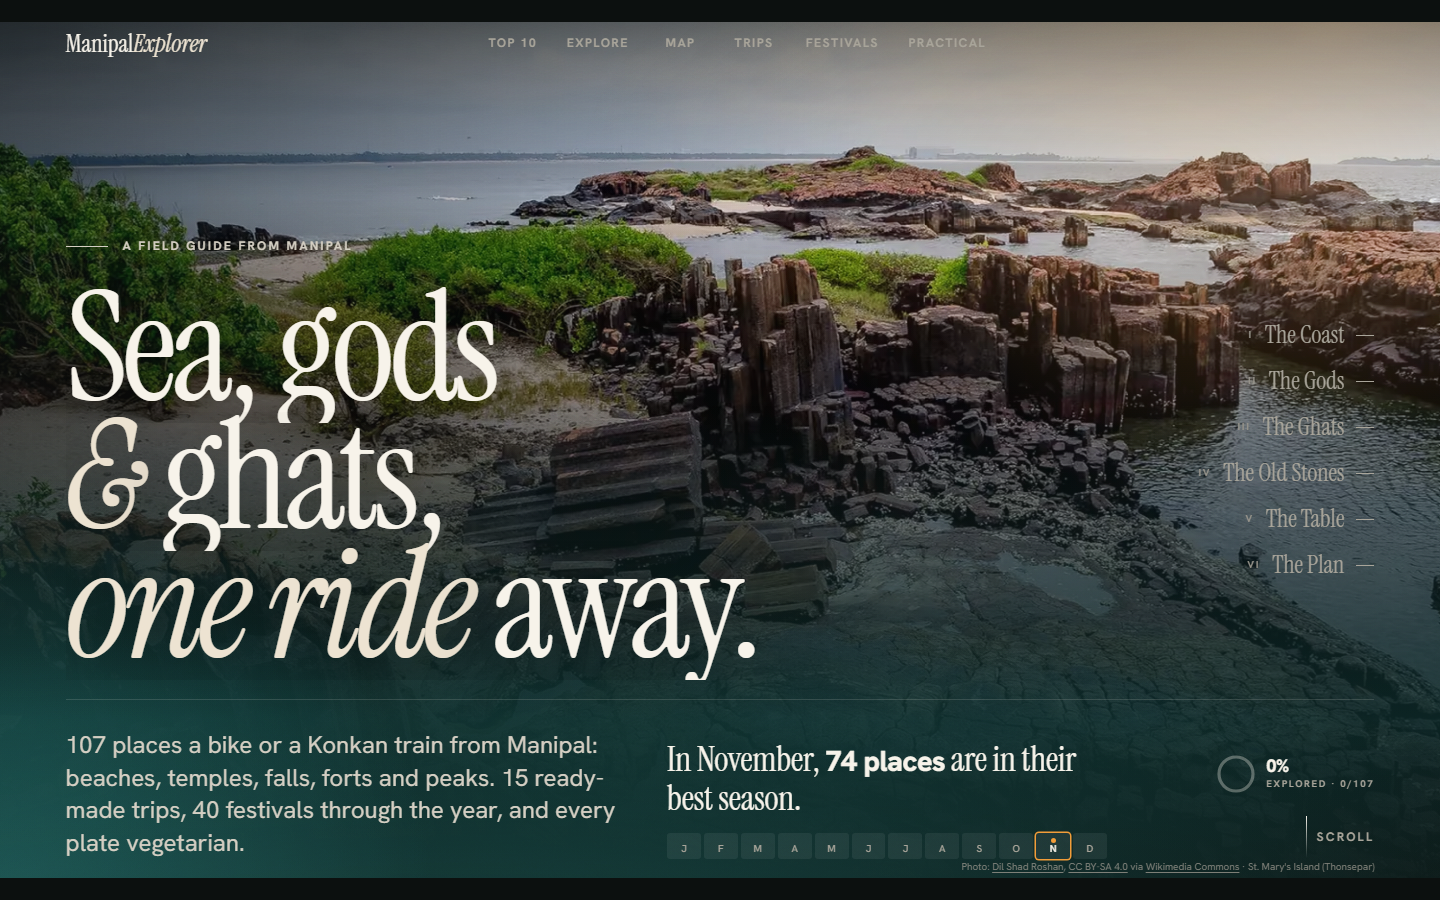
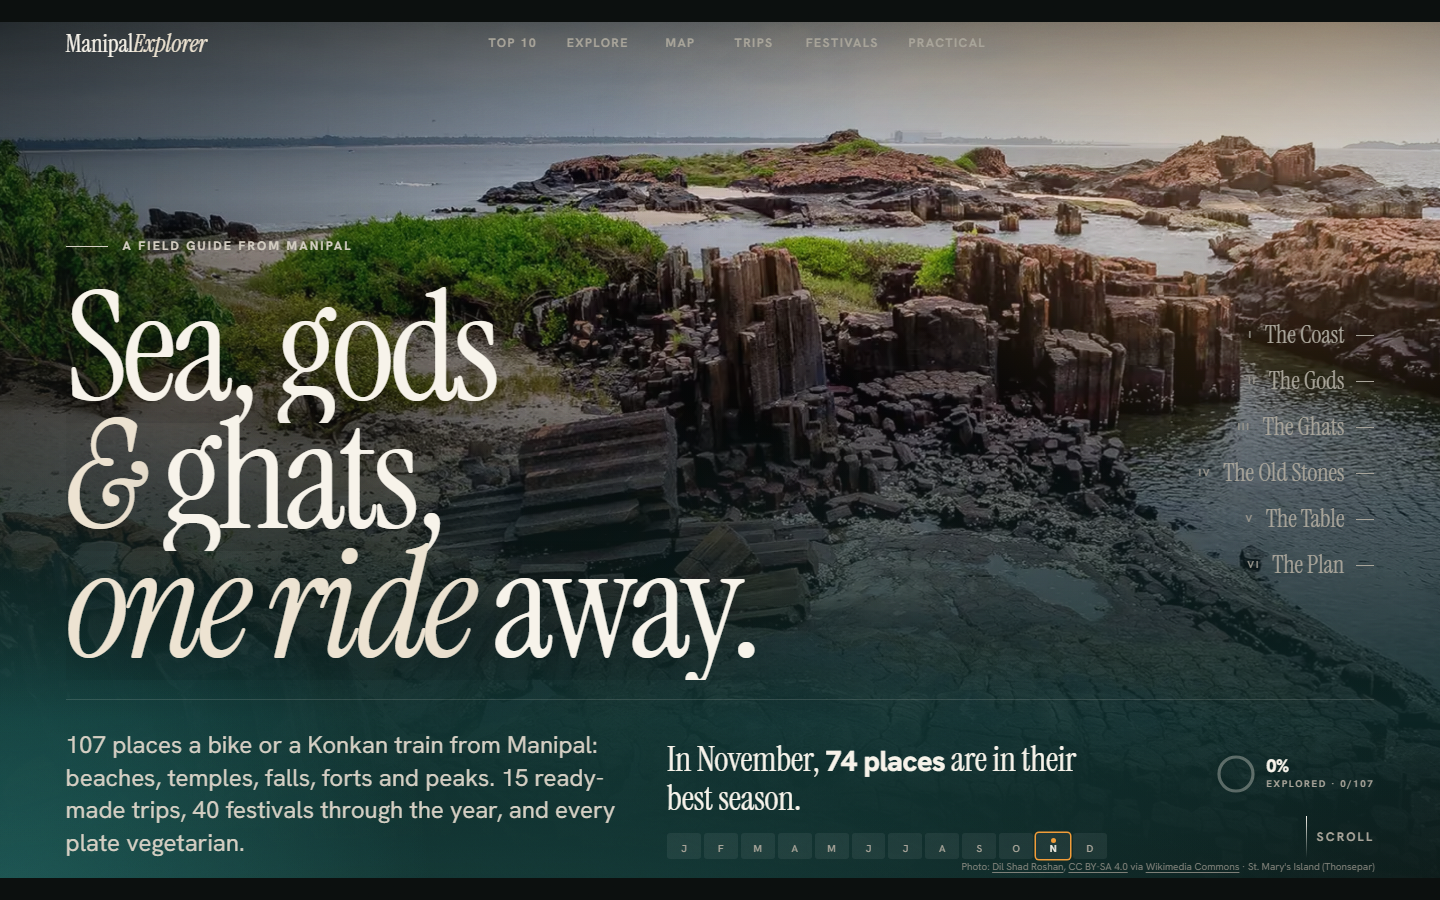
perf(site): 1 s intro on phones, sections render as you near them
- Intro: same choreography at 2.4x speed on phones (about 1 s); laptops keep 2.45 s.
- rest.js: the Top 10 renders after the hero; every section below it starts as a
  screen-tall placeholder (same id) and renders when within ~1.5 screens, in
  page order. Also renders ahead of in-page and hash links (me:need event),
  keyboard focus reaching the last rendered section, Ctrl/Cmd+F and printing.
  First phone render: ~6,000 elements -> ~1,200.
- motion.js: reveals, fades, headline splits, openers, swipe bars and the
  content-visibility re-measure are set up per section (addSection).
- QA scripts scroll until every section has rendered; lighthouse.mjs takes PROFILES.

diff --git a/src/modules/motion.js b/src/modules/motion.js
@@ -35,8 +35,22 @@ export const motion = { lenis: null };
 // data arrives). `rest` resolves once every other section is in the DOM.
 // Returns a promise that settles when the intro is over or skipped: on a first
 // visit main.js holds the heavy render until then, so the intro runs smoothly.
+// Sections below the Top 10 render as the reader nears them (rest.js), so the
+// scroll effects are set up per section: addSection(root) wires a new one.
+let wire = null;
+export function addSection(root) { wire?.(root); }
+
+// Called as soon as the header and hero are on the page (they render before the
+// data arrives). `rest` resolves once the first sections are in the DOM.
+// Returns a promise that settles when the intro is over or skipped: on a first
+// visit main.js holds the heavier render until then, so the intro runs smoothly.
 export function initMotion(rest) {
-  if (reduce) { endIntro(); shaderSlot()?.classList.add('is-static'); rest.then(reducedFades); return Promise.resolve(); }
+  if (reduce) {
+    endIntro(); shaderSlot()?.classList.add('is-static');
+    const fades = reducedFades();
+    rest.then(() => { fades.add(document); wire = fades.add; });
+    return Promise.resolve();
+  }
   gsap.registerPlugin(ScrollTrigger, SplitText, Flip);
   // No automatic refresh on window load: it lands mid-intro on slow phones.
   // We refresh once ourselves when the intro ends.
@@ -48,31 +62,36 @@ export function initMotion(rest) {
   // Anything that changes page height above a pin (details opening, map load) re-measures.
   let t = 0;
   const refresh = () => { clearTimeout(t); t = setTimeout(() => ScrollTrigger.refresh(), 160); };
+  // Blocks below the map skip layout until near the screen (motion.css);
+  // when one first renders at its real height, pins below it re-measure.
+  const seen = new WeakSet();
+  const ro = new ResizeObserver((es) => { let grew = false; es.forEach((e) => { if (seen.has(e.target)) grew = true; else seen.add(e.target); }); if (grew) refresh(); });
+  const CV = '#ch-table > .wrap, #plan > .timeline, #festivals, #practical';
   rest.then(() => {
-    // Hidden states are set now; observing starts after the intro (scroll is
-    // locked during it, and ~330 observed targets cost ~300 ms of main thread
-    // on a throttled phone while the intro animates).
-    const watch = [cardReveals(), fadeUps()];
-    openers();
+    // Hidden states are set as sections arrive; observing starts after the intro
+    // (scroll is locked during it, and observing hundreds of targets costs main
+    // thread on a throttled phone while the intro animates).
+    const reveals = cardReveals(), fades = fadeUps(), splits = splitHeadings();
+    const setup = (root) => {
+      reveals.add(root); fades.add(root); splits.add(root);
+      openers(root); swipeTracks(root);
+      [root, ...root.querySelectorAll(CV)].filter((el) => el.matches?.(CV)).forEach((el) => ro.observe(el));
+    };
+    setup(document);
     flipFilters();
-    swipeTracks(document);
     feedback();
     sheetContent();
     if (fine) { cursor(); magnetic(); tilt(); }
+    wire = (root) => { setup(root); refresh(); };
     // Headline splits and the shader wait until the intro is done, so neither
     // competes with it for the main thread on a slow phone.
     introDone.then(() => idle(() => {
-      watch.forEach((start) => start());
+      reveals.start(); fades.start();
       (document.fonts?.ready ?? Promise.resolve()).then(() => {
-        splitHeadings();
+        splits.start();
         ScrollTrigger.refresh();
         document.addEventListener('toggle', refresh, true);
         onGridDone(refresh); // the grid's later batches push everything below it down
-        // Blocks below the map skip layout until near the screen (motion.css);
-        // when one first renders at its real height, pins below it re-measure.
-        const seen = new WeakSet();
-        const ro = new ResizeObserver((es) => { let grew = false; es.forEach((e) => { if (seen.has(e.target)) grew = true; else seen.add(e.target); }); if (grew) refresh(); });
-        document.querySelectorAll('#ch-table > .wrap, #plan > .timeline, #festivals, #practical').forEach((el) => ro.observe(el));
         addEventListener('load', refresh);
         idle(mountShader);
       });
@@ -112,6 +131,8 @@ function smoothScroll() {
     if (!a || e.defaultPrevented || a.hasAttribute('data-open') || a.classList.contains('skip')) return;
     const id = decodeURIComponent(a.getAttribute('href').slice(1));
     if (!id || id.startsWith('place-')) return;
+    // Sections render as the reader nears them (rest.js): bring in everything up to the target first.
+    document.dispatchEvent(new CustomEvent('me:need', { detail: id }));
     const el = document.getElementById(id);
     if (!el) return;
     e.preventDefault();
@@ -166,10 +187,13 @@ function intro(after) {
     .from(lines, { yPercent: 112, duration: 0.9, stagger: 0.07 }, 1.4)
     .from(rest, { y: 22, opacity: 0, duration: 0.7, stagger: 0.03, clearProps: 'transform,opacity' }, 1.5)
     .from(sub, { y: 22, duration: 0.7, clearProps: 'transform' }, 1.5);
+  // Phones get the same choreography at 2.4x speed (about 1 s): a long intro holds
+  // a phone's screen while the reader waits to scroll. Laptops keep the full ≈ 2.45 s.
+  if (matchMedia('(max-width: 999px)').matches) tl.timeScale(2.4);
   // Built paused (so the hero is already in its start pose) and played after the
   // page's first heavy paint, so a slow phone sees the whole thing.
   afterFirstPaint(() => tl.play());
-  // Total ≈ 2.45 s. Any key, click, wheel or touch skips straight to the end.
+  // Total ≈ 2.45 s (about 1 s on phones). Any key, click, wheel or touch skips straight to the end.
   const skip = () => tl.progress(1);
   const evs = ['keydown', 'pointerdown', 'wheel', 'touchstart'];
   evs.forEach((ev) => addEventListener(ev, skip, { passive: true }));
@@ -217,14 +241,16 @@ function cardReveals() {
     c.classList.remove('rv');
     setTimeout(() => c.style.removeProperty('--rv-d'), 2200); // so later hovers have no delay
   }), '0px 25% -6% 25%');
-  // Grid cards arrive in batches after first paint (explore.js): they join the
-  // same observer as they land.
-  const cards = new Set(document.querySelectorAll('.card'));
+  // Grid cards arrive in batches (explore.js) and sections as the reader nears
+  // them (rest.js): each card joins the same observer as it lands.
+  const cards = new Set();
   let live = false;
-  const add = (c) => { c.classList.add('rv'); if (live) io.observe(c); };
-  cards.forEach(add);
-  onCards((list) => list.forEach((c) => { if (!cards.has(c)) { cards.add(c); add(c); } }));
-  return () => { live = true; cards.forEach((c) => io.observe(c)); };
+  const one = (c) => { if (cards.has(c)) return; cards.add(c); c.classList.add('rv'); if (live) io.observe(c); };
+  onCards((list) => list.forEach(one));
+  return {
+    add: (root) => root.querySelectorAll('.card').forEach(one),
+    start: () => { live = true; cards.forEach((c) => { if (c.classList.contains('rv')) io.observe(c); }); },
+  };
 }
 
 function fadeUps() {
@@ -234,9 +260,12 @@ function fadeUps() {
     gsap.fromTo(els, { opacity: 0, y: 30 }, { opacity: 1, y: 0, duration: 1, ease: EXPO, stagger: 0.06, clearProps: 'transform,opacity' });
     els.forEach((el) => el.classList.remove('fu'));
   });
-  const els = document.querySelectorAll(CARD_FADE);
-  els.forEach((el) => el.classList.add('fu'));
-  return () => els.forEach((el) => io.observe(el));
+  const els = new Set();
+  let live = false;
+  return {
+    add: (root) => root.querySelectorAll(CARD_FADE).forEach((el) => { if (els.has(el)) return; els.add(el); el.classList.add('fu'); if (live) io.observe(el); }),
+    start: () => { live = true; els.forEach((el) => { if (el.classList.contains('fu')) io.observe(el); }); },
+  };
 }
 
 // ── Split headlines (after fonts, so line breaks are final) ──────────
@@ -253,19 +282,24 @@ function splitHeadings() {
     gsap.set(s.words, { yPercent: 110 });
     io.observe(el);
   }), { rootMargin: '0px 0px 120% 0px' });
-  document.querySelectorAll(HEADINGS).forEach((el) => pre.observe(el));
+  const els = new Set();
+  let live = false;
+  return {
+    add: (root) => root.querySelectorAll(HEADINGS).forEach((el) => { if (els.has(el)) return; els.add(el); if (live) pre.observe(el); }),
+    start: () => { live = true; els.forEach((el) => pre.observe(el)); },
+  };
 }
 
 // ── Chapter openers ───────────────────────────────────────────────────
 const ARCH_SHUT = 'inset(100% 0% 0% 0% round 999px 999px 6px 6px)';
 const ARCH_OPEN = 'inset(0% 0% 0% 0% round 999px 999px 6px 6px)';
-function openers() {
+function openers(root) {
   const mm = gsap.matchMedia();
   // Laptop: each opener pins for a beat. The numeral comes forward out of the
   // dark, the Gods' arch opens like a doorway, then everything recedes as the
   // pin lets go and the chapter's cards arrive.
   mm.add('(min-width: 1000px)', () => {
-    gsap.utils.toArray('.opener').forEach((op) => {
+    root.querySelectorAll('.opener').forEach((op) => {
       const num = op.querySelector('.opener__num'), text = op.querySelector('.opener__text'), arch = op.querySelector('.arch__img');
       gsap.fromTo(num, { yPercent: 18 }, { yPercent: 0, ease: 'none', scrollTrigger: { trigger: op, start: 'top bottom', end: 'top top', scrub: true } });
       const tl = gsap.timeline({ defaults: { ease: 'none' }, scrollTrigger: { trigger: op, start: 'top top', end: '+=75%', scrub: 0.6, pin: true, anticipatePin: 1 } });
@@ -283,10 +317,10 @@ function openers() {
   // Phone: no pinning (it fights thumb scrolling). The numeral drifts against
   // the scroll for depth and the arch opens once as it comes into view.
   mm.add('(max-width: 999px)', () => {
-    gsap.utils.toArray('.opener__num').forEach((num) => {
+    root.querySelectorAll('.opener__num').forEach((num) => {
       gsap.fromTo(num, { yPercent: -10 }, { yPercent: 12, ease: 'none', scrollTrigger: { trigger: num.parentElement, start: 'top bottom', end: 'bottom top', scrub: true } });
     });
-    gsap.utils.toArray('.arch__img').forEach((arch) => {
+    root.querySelectorAll('.arch__img').forEach((arch) => {
       gsap.fromTo(arch, { clipPath: ARCH_SHUT }, { clipPath: ARCH_OPEN, duration: 1.4, ease: FILM, scrollTrigger: { trigger: arch, start: 'top 85%', once: true } });
     });
   });
@@ -492,14 +526,14 @@ function tilt() {
 
 // ── Reduced motion: plain fades, nothing moves ────────────────────────
 function reducedFades() {
-  const els = new Set(document.querySelectorAll(`.card, .opener__text, ${CARD_FADE}`));
+  const els = new Set();
   const io = new IntersectionObserver((entries) => entries.forEach((e) => {
     if (!e.isIntersecting) return;
     io.unobserve(e.target);
     e.target.classList.remove('rm-wait');
     e.target.animate([{ opacity: 0 }, { opacity: 1 }], { duration: 450, easing: 'linear' });
   }), { rootMargin: '0px 0px -4% 0px' });
-  const add = (el) => { el.classList.add('rm-wait'); io.observe(el); };
-  els.forEach(add);
-  onCards((list) => list.forEach((c) => { if (!els.has(c)) { els.add(c); add(c); } }));
+  const one = (el) => { if (els.has(el)) return; els.add(el); el.classList.add('rm-wait'); io.observe(el); };
+  onCards((list) => list.forEach(one));
+  return { add: (root) => root.querySelectorAll(`.card, .opener__text, ${CARD_FADE}`).forEach(one) };
 }

diff --git a/src/modules/rest.js b/src/modules/rest.js
@@ -1,5 +1,13 @@
 // Everything after the hero (lazy chunk, loaded in parallel with the data).
-// Sections render one per task, so no single task blocks the phone for long.
+//
+// The Top 10 renders straight away. Every section below it starts as an empty,
+// screen-tall placeholder and renders when the reader gets within about a
+// screen and a half of it, so a phone only builds what is about to be seen.
+// Sections always render in page order (a later one never appears before an
+// earlier one), and they also render ahead of:
+//   - in-page links and hash links (#festivals, #ch-plan, #trip-…): everything up to the target,
+//   - keyboard focus: tabbing into the last rendered section renders the next,
+//   - Ctrl/Cmd+F and printing: everything, so find-in-page and print see the whole guide.
 import { places } from './data.js';
 import { mustDo, chapter, explore, mapSection, table, plan, festivalsSection, practicalSection, footer } from './sections.js';
 import { syncButtons, subscribe, explored, count, has } from './state.js';
@@ -8,38 +16,88 @@ import { initExplore } from './explore.js';
 import { initMap } from './map.js';
 import { initPinGallery } from './gallery.js';
 
-const nextTask = () => new Promise((r) => setTimeout(r, 0));
+// [id, render, ids that live inside it (link targets), after-render hook]
+const PARTS = [
+  ['ch-coast', () => chapter('coast')],
+  ['ch-gods', () => chapter('gods')],
+  ['ch-ghats', () => chapter('ghats')],
+  ['ch-heritage', () => chapter('heritage')],
+  ['explore', explore, [], initExplore],
+  ['map', mapSection, [], initMap],
+  ['ch-table', table],
+  ['plan', plan, ['ch-plan', 'trip-']],
+  ['festivals', festivalsSection],
+  ['practical', practicalSection],
+  ['credits', footer],
+];
 
-export async function renderRest(app, main, restDone) {
-  const parts = [mustDo, () => chapter('coast'), () => chapter('gods'), () => chapter('ghats'), () => chapter('heritage'),
-    explore, mapSection, table, plan, festivalsSection, practicalSection];
-  for (const part of parts) {
-    main.insertAdjacentHTML('beforeend', part());
-    await nextTask();
-  }
-  app.insertAdjacentHTML('beforeend', footer());
+// "Been there" progress ring + explored %.
+function syncExplored() {
+  const pct = explored();
+  document.querySelectorAll('[data-explored-pct]').forEach((el) => { el.textContent = `${pct}%`; });
+  document.querySelectorAll('[data-been-count]').forEach((el) => { el.textContent = count('been'); });
+  document.querySelectorAll('.ring').forEach((r) => r.style.setProperty('--p', Math.max(pct, count('been') ? 1.5 : 0)));
+  // The accessible name starts with the visible text (WCAG 2.5.3), then explains it.
+  document.querySelectorAll('[data-explored]').forEach((a) => a.setAttribute('aria-label', `${pct}% explored${a.hasAttribute('data-explored-full') ? ` · ${count('been')}/${places.length}` : ''}: ${count('been')} of ${places.length} places marked as been there`));
+  document.querySelectorAll('.card').forEach((c) => c.classList.toggle('is-been', has('been', c.dataset.place)));
+}
 
-  // "Been there" progress ring + explored %.
-  function syncExplored() {
-    const pct = explored();
-    document.querySelectorAll('[data-explored-pct]').forEach((el) => { el.textContent = `${pct}%`; });
-    document.querySelectorAll('[data-been-count]').forEach((el) => { el.textContent = count('been'); });
-    document.querySelectorAll('.ring').forEach((r) => r.style.setProperty('--p', Math.max(pct, count('been') ? 1.5 : 0)));
-    // The accessible name starts with the visible text (WCAG 2.5.3), then explains it.
-    document.querySelectorAll('[data-explored]').forEach((a) => a.setAttribute('aria-label', `${pct}% explored${a.hasAttribute('data-explored-full') ? ` · ${count('been')}/${places.length}` : ''}: ${count('been')} of ${places.length} places marked as been there`));
-    document.querySelectorAll('.card').forEach((c) => c.classList.toggle('is-been', has('been', c.dataset.place)));
-  }
+export function renderRest(app, main, restDone, motion) {
+  main.insertAdjacentHTML('beforeend', mustDo());
+  // Placeholders: same ids as the real sections, so links resolve before they render.
+  main.insertAdjacentHTML('beforeend', PARTS.slice(0, -1).map(([id]) => `<div class="lazy-sec" id="${id}" data-lazy aria-busy="true"></div>`).join(''));
+  app.insertAdjacentHTML('beforeend', `<div class="lazy-sec lazy-sec--foot" id="credits" data-lazy aria-busy="true"></div>`);
 
   syncButtons();
   syncExplored();
   subscribe(syncExplored);
   initDetail();
-  initExplore();
-  initMap();
   initPinGallery();
-  restDone();
 
-  // A section link (#festivals) followed from elsewhere: the target only exists now.
+  let next = 0; // index of the first part not yet rendered
+  const rendered = [document.getElementById('must-do')];
+  const io = new IntersectionObserver((entries) => {
+    const hit = entries.filter((e) => e.isIntersecting).map((e) => PARTS.findIndex(([id]) => id === e.target.id));
+    if (hit.length) renderTo(Math.max(...hit));
+  }, { rootMargin: '0px 0px 150% 0px' });
+
+  function renderTo(i) {
+    while (next <= i && next < PARTS.length) {
+      const [id, html, , init] = PARTS[next++];
+      const ph = document.getElementById(id);
+      io.unobserve(ph);
+      ph.insertAdjacentHTML('afterend', html());
+      ph.remove();
+      const el = document.getElementById(id);
+      rendered.push(el);
+      syncButtons(el);
+      init?.();
+      syncExplored();
+      motion?.addSection(el);
+    }
+  }
+  const indexFor = (target) => PARTS.findIndex(([id, , inside = []]) => id === target || inside.some((x) => (x.endsWith('-') ? target.startsWith(x) : x === target)));
+  // Render everything up to a link target; unknown targets render the lot.
+  const need = (target) => { const i = indexFor(target); renderTo(i < 0 ? PARTS.length - 1 : i); };
+
+  document.addEventListener('me:need', (e) => need(e.detail));
+  addEventListener('hashchange', () => {
+    const id = decodeURIComponent(location.hash.slice(1));
+    if (id && !id.startsWith('place-')) { need(id); document.getElementById(id)?.scrollIntoView(); }
+  });
+  // Keyboard: focus inside the last rendered section brings in the next one.
+  document.addEventListener('focusin', (e) => {
+    if (next >= PARTS.length) return;
+    const last = rendered.at(-1);
+    if (last?.contains(e.target) || e.target === main) renderTo(next);
+  });
+  addEventListener('keydown', (e) => { if ((e.ctrlKey || e.metaKey) && e.key.toLowerCase() === 'f') renderTo(PARTS.length - 1); });
+  addEventListener('beforeprint', () => renderTo(PARTS.length - 1));
+
+  restDone();
+  PARTS.forEach(([id]) => io.observe(document.getElementById(id)));
+
+  // A section link (#festivals) followed from elsewhere: render up to it, then go.
   const id = decodeURIComponent(location.hash.slice(1));
-  if (id && !id.startsWith('place-')) document.getElementById(id)?.scrollIntoView();
+  if (id && !id.startsWith('place-')) { need(id); document.getElementById(id)?.scrollIntoView(); }
 }

diff --git a/src/main.js b/src/main.js
@@ -5,8 +5,8 @@
 //   1. header + hero, straight away. They read only a build-time summary
 //      (virtual:hero-data), not places.json, so the headline paints early.
 //   2. Motion starts (intro or title rise) as soon as its chunk is in.
-//   3. Once the data is in (and, on a first visit, the intro is over) every
-//      other section renders, one per task, so no single task blocks for long.
+//   3. Once the data is in (and, on a first visit, the intro is over) the Top 10
+//      renders; every section below it renders as the reader nears it (rest.js).
 import './styles/fonts.css';
 import './styles/tokens.css';
 import './styles/base.css';
@@ -32,17 +32,17 @@ new IntersectionObserver(([e]) => head.classList.toggle('is-solid', !e.isInterse
 
 // 2 · Motion. Its chunk (GSAP, Lenis) is preloaded from the HTML. If it fails,
 // the site still works without motion.
-let restDone;
+let restDone, motionMod = null;
 const rest = new Promise((r) => { restDone = r; });
 const data = loadData();
 const restChunk = import('./modules/rest.js');
 import('./modules/motion.js')
-  .then((m) => m.initMotion(rest))
+  .then((m) => { motionMod = m; return m.initMotion(rest); })
   .catch((err) => { console.warn(err); dropIntro(); })
   .then((introOver) => (firstVisit ? introOver : null))
   // 3 · Everything else, once the data is in and the intro has finished.
   .then(() => Promise.all([restChunk, data]))
-  .then(([m]) => m.renderRest(app, main, restDone), (err) => {
+  .then(([m]) => m.renderRest(app, main, restDone, motionMod), (err) => {
     console.error(err);
     dropIntro();
     main.insertAdjacentHTML('beforeend', '<p class="load-error" role="alert">The guide couldn’t load its places. Check your connection and refresh.</p>');

diff --git a/src/styles/motion.css b/src/styles/motion.css
@@ -131,6 +131,9 @@ html.is-intro .intro { display: block; position: fixed; inset: 0; z-index: var(-
 @media (min-width: 560px) { #ch-table > .wrap { --cv-h: 8000px; } #plan > .timeline { --cv-h: 2200px; } #festivals { --cv-h: 6100px; } #practical { --cv-h: 2100px; } }
 @media (min-width: 1000px) { #ch-table > .wrap { --cv-h: 5900px; } #plan > .timeline { --cv-h: 2500px; } #festivals { --cv-h: 5750px; } #practical { --cv-h: 1850px; } #credits > .wrap { --cv-h: 420px; } }
 
+/* Sections waiting to render (rest.js renders them as the reader nears them). */
+.lazy-sec { min-height: 100vh; min-height: 100svh; }
+
 /* Print: everything shown, nothing mid-reveal. */
 @media print {
   #ch-table > .wrap, #plan > .timeline, #festivals, #practical, #credits > .wrap { content-visibility: visible; }
